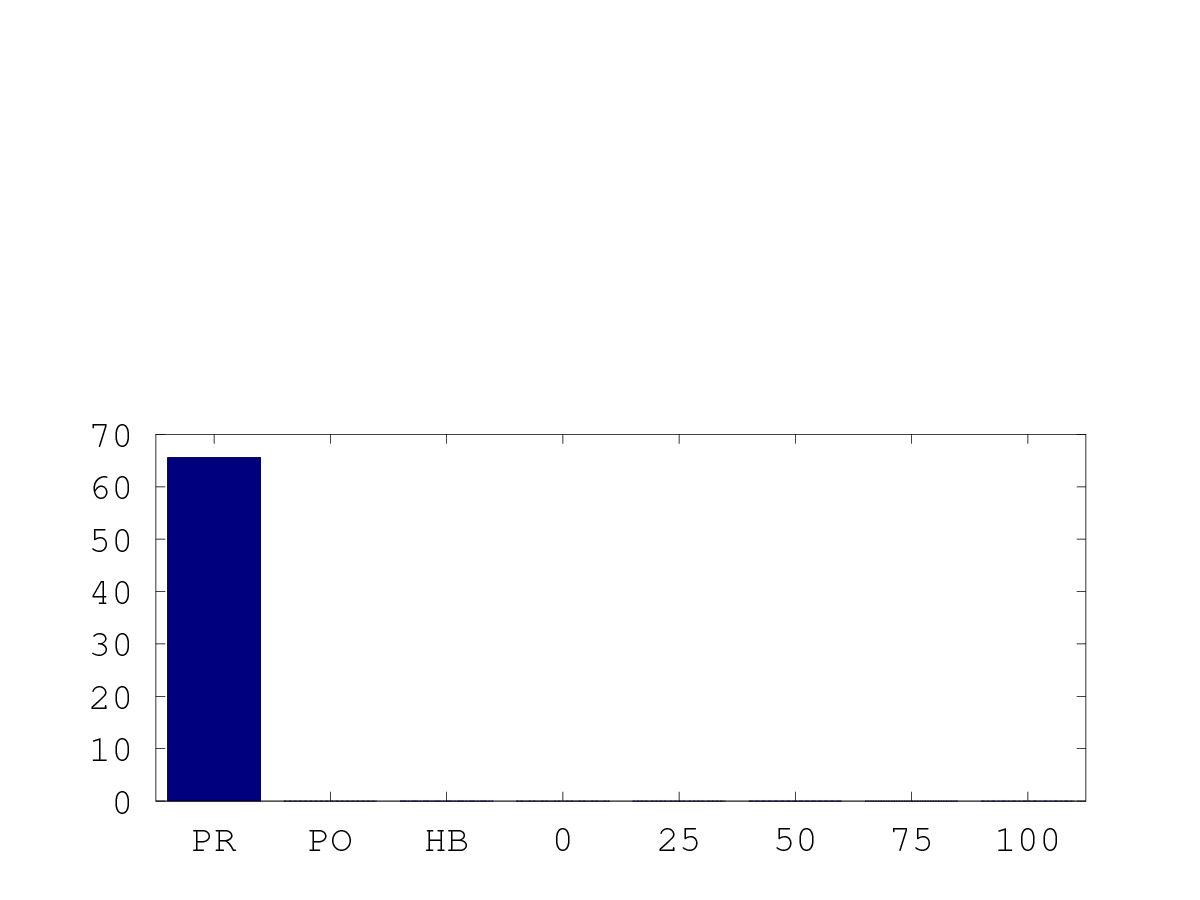
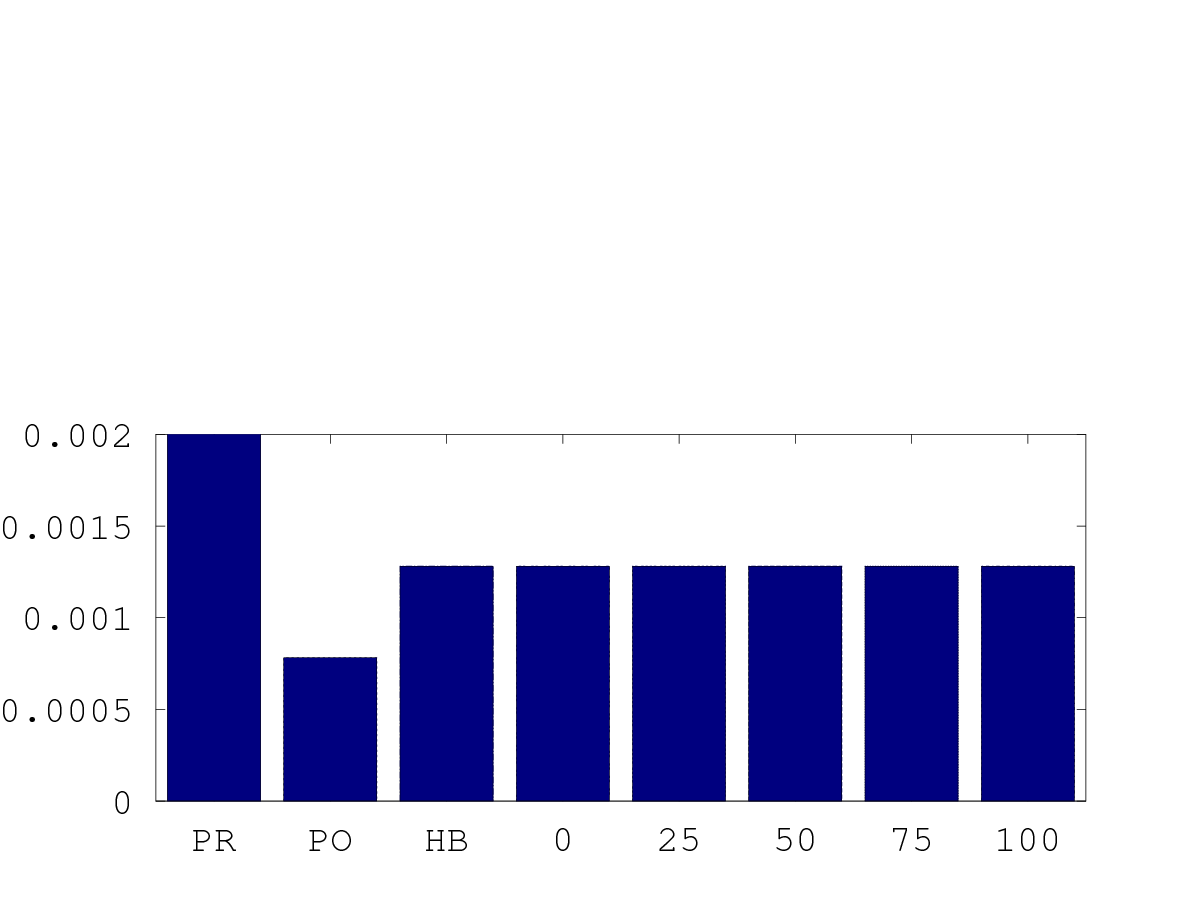
basic_break.m

diff --git a/basic_break.m b/basic_break.m
@@ -301,7 +301,7 @@ a1 = axes ('position', [p0(1) p0(2) p0(3) p0(4)/2]);
 bar(xintervals, A(:,2))
 %set(gca, 'XTick', xintervals, 'XTickLabel', x, 'FontSize', fontsize)
 set(a1, 'XTick', xintervals, 'XTickLabel', x, 'FontSize', fontsize)
-%set (a1, 'ylim', ylim1);
+set (a1, 'ylim', ylim1);
 %set(a1, 'xtick', []);
 %xlabel('COPY METHOD', 'FontSize', fontsize);
 %ylabel('DOWNTIME (SEC)', 'FontSize', fontsize);
